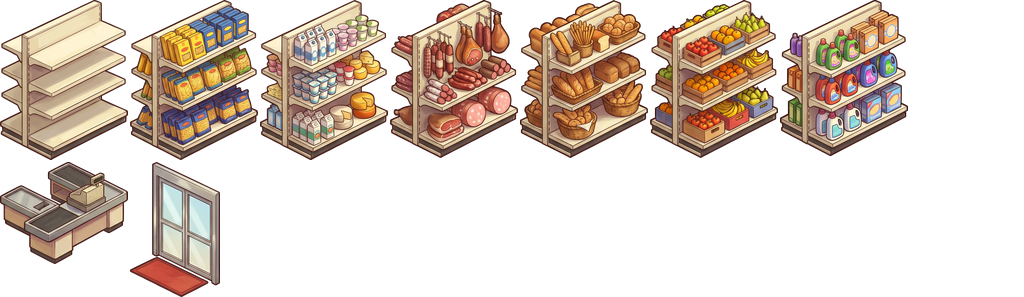
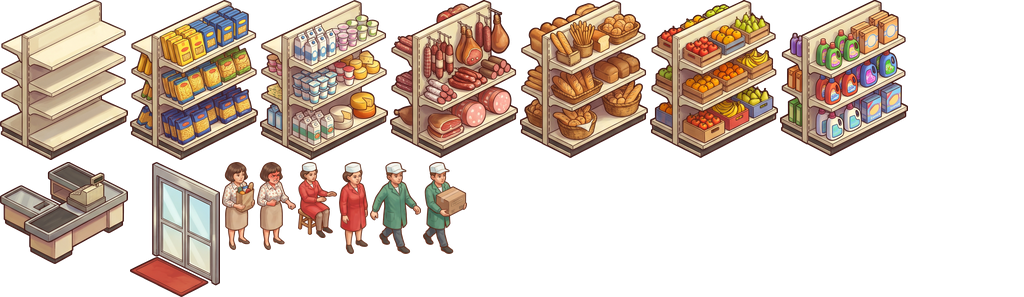
feat(07): painted people sprites
Shopper (calm/angry), cashier (seated/standing), stocker (empty/with box)
from a second Gemini sheet; mirrored when walking left.

Changed region(s): [[0.2188, 0.5455, 0.4688, 0.8485]]

diff --git a/src/render/draw.ts b/src/render/draw.ts
@@ -81,8 +81,8 @@ const CUSTOMER = 0x3d6fb5;
 const CUSTOMER_ANGRY = 0xd64541;
 const CUSTOMER_H = 22;
 
-/** Characters face bottom-left; mirror them while walking towards screen right. */
-const facesRight = (a: { x: number; y: number }, to?: { x: number; y: number }) => !!to && to.x - a.x - (to.y - a.y) > 0.01;
+/** Characters are painted facing bottom-right; mirror them while walking towards screen left. */
+const goesLeft = (a: { x: number; y: number }, to?: { x: number; y: number }) => !!to && to.x - a.x - (to.y - a.y) < -0.01;
 
 /** Feet of a person standing at fractional cell (x, y): the centre of the diamond. */
 const feet = (x: number, y: number) => { const p = gridToIso(x, y); return { x: p.x, y: p.y + TILE_H / 2 }; };
@@ -90,7 +90,7 @@ const feet = (x: number, y: number) => { const p = gridToIso(x, y); return { x: 
 export function drawCustomer(g: G, over: G, c: Customer, put: Put = noPut, depth = 0) {
     const angry = c.state === 'leaving_angry';
     const f = feet(c.x, c.y);
-    const drawn = put(angry ? SPRITES.clienteArrabbiato : SPRITES.cliente, f.x, f.y + 2, depth, facesRight(c, c.path[0]));
+    const drawn = put(angry ? SPRITES.clienteArrabbiato : SPRITES.cliente, f.x, f.y + 2, depth, goesLeft(c, c.path[0]));
     if (!drawn) box(g, c.x, c.y, CUSTOMER_H, angry ? CUSTOMER_ANGRY : CUSTOMER, 0.35);
     if (c.state === 'leaving' || angry) return;
     // patience bar over the head
@@ -115,7 +115,7 @@ export function drawStaff(g: G, st: Staff, put: Put = noPut, depth = 0) {
     const frame = st.role === 'cassiere'
         ? (st.state === 'at_till' ? SPRITES.cassiereSeduto : SPRITES.cassiere)
         : (st.job?.units ? SPRITES.magazziniereScatolone : SPRITES.magazziniere);
-    if (put(frame, f.x, f.y + 2, depth, facesRight(st, st.path[0]))) return;
+    if (put(frame, f.x, f.y + 2, depth, goesLeft(st, st.path[0]))) return;
     box(g, st.x - o, st.y - o, 24, ROLE_COLOR[st.role], 0.38);
     box(g, st.x - o, st.y - o, 28, 0xf4efe6, 0.24); // berretto bianco
     if (st.job?.units) box(g, st.x + 0.15, st.y + 0.15, 16, CRATE, 0.3); // scatolone in mano

diff --git a/tests/assets.test.ts b/tests/assets.test.ts
@@ -1,6 +1,6 @@
 import { test } from 'node:test';
 import assert from 'node:assert/strict';
-import { existsSync, readFileSync } from 'node:fs';
+import { readFileSync } from 'node:fs';
 import { CATEGORIES } from '../src/sim/config.ts';
 import { SPRITES } from '../src/render/sprites.ts';
 
@@ -11,8 +11,7 @@ test('every drawable has a frame: furniture', () => {
     has([SPRITES.porta, SPRITES.cassa, SPRITES.scaffale, ...CATEGORIES.map((c) => SPRITES.shelf(c))]);
 });
 
-// todo until art/sheets/personaggi.jpg exists (Gemini image generation overloaded on 2026-11-26)
-test('every drawable has a frame: people', { todo: !existsSync(new URL('../art/sheets/personaggi.jpg', import.meta.url)) }, () => {
+test('every drawable has a frame: people', () => {
     has([SPRITES.cliente, SPRITES.clienteArrabbiato, SPRITES.cassiere, SPRITES.cassiereSeduto,
         SPRITES.magazziniere, SPRITES.magazziniereScatolone]);
 });

diff --git a/docs/milestones/07-sprite-dipinti.md b/docs/milestones/07-sprite-dipinti.md
@@ -2,7 +2,7 @@
 
 ## Status
 
-in progress — arredi fatti e online (3a69e3b); personaggi in attesa: generazione immagini Gemini sovraccarica (2026-11-26), riprovare
+implemented — in attesa del playtest dell'utente
 
 ## Objective
 
@@ -30,7 +30,7 @@ Sostituire i blocchi colorati con sprite isometrici **dipinti** (non pixel art) 
 ## Acceptance criteria
 
 - [x] Ogni tipo di oggetto ha un frame in `kit.json` — test: `tests/assets.test.ts::every drawable has a frame: furniture`
-- [ ] Ogni personaggio ha un frame — test: `tests/assets.test.ts::every drawable has a frame: people` (todo finché manca `art/sheets/personaggi.jpg`)
+- [x] Ogni personaggio ha un frame — test: `tests/assets.test.ts::every drawable has a frame: people`
 - [x] Il gioco carica l'atlas senza errori in console e disegna gli sprite — test: `scripts/browser-test.mjs::no console errors` + screenshot
 - [ ] Merce sullo scaffale visibile e distinguibile per categoria; scaffale vuoto riconoscibile — screenshot + verified by user playtest
 - [ ] Sprite coerenti e leggibili su telefono (zoom minimo e normale) — verified by user playtest
@@ -48,4 +48,5 @@ L'utente apre il gioco dal telefono e vede un supermercato dipinto: pavimenti, s
 ## Notes
 
 - Promuove dal backlog: "Sprite dipinti AI". Chiude l'open question "Strumento AI per gli sprite e formato atlas": Gemini + atlas PNG/JSON fatto in casa.
+- Il foglio personaggi è venuto da una chat Gemini nuova ("1980s Italian Supermarket Sprite Sheet"): la prima chat falliva sempre. I personaggi guardano in basso a destra; `draw.ts` li specchia quando vanno verso sinistra.
 - Riferimento: pipeline di `spesa-nonna` (`tools/kit.py`, `tools/scontorna.py`), che però produceva pixel art: qui lo stile resta dipinto (gameplan).

diff --git a/docs/STATE.md b/docs/STATE.md
@@ -12,19 +12,19 @@ development (scaffold completato)
 
 ## Current milestone
 
-[07 — Sprite dipinti](milestones/07-sprite-dipinti.md) (in corso: arredi fatti, personaggi da generare). Poi [08 — Rifiniture rapide](milestones/08-rifiniture-rapide.md). 01–06 e 05b chiusi.
+[07 — Sprite dipinti](milestones/07-sprite-dipinti.md) (implementato, in attesa di playtest). Poi [08 — Rifiniture rapide](milestones/08-rifiniture-rapide.md). 01–06 e 05b chiusi.
 
 ## Last action
 
-Milestone 07, parte arredi: foglio Gemini `art/sheets/arredi.jpg` (scaffale vuoto + 6 categorie, cassa, porta), `tools/kit.py` (scontorno + atlas `public/assets/kit.png/json`), `draw.ts` disegna gli sprite con i blocchi come riserva. Online (3a69e3b), browser test live 10/10. `npm test` 36 pass + 1 todo (personaggi).
+Milestone 07 implementata: fogli Gemini `art/sheets/arredi.jpg` (scaffale vuoto + 6 categorie, cassa, porta) e `personaggi.jpg` (cliente calma/arrabbiata, cassiere seduto/in piedi, magazziniere a mani vuote/con scatolone); `tools/kit.py` scontorna e impacchetta `public/assets/kit.png/json`; `draw.ts` disegna gli sprite (blocchi come riserva). `npm test` 37/37, browser 10/10.
 
 ## Next step
 
-Generare il foglio personaggi nella chat Gemini "Retro Italian Supermarket Sprite Sheet" (prompt in `art/prompts.md`, modalità Auto), scaricarlo in `art/sheets/personaggi.jpg`, `python3 tools/kit.py`, controllare screenshot, push. Oppure passare all'08 e tornare dopo.
+Playtest dell'utente sul telefono per chiudere il 07, poi [08 — Rifiniture rapide](milestones/08-rifiniture-rapide.md).
 
 ## Blockers
 
-Generazione immagini Gemini sovraccarica il 2026-11-26 (4 tentativi falliti).
+none
 
 ## Notes for next session
 

diff --git a/art/prompts.md b/art/prompts.md
@@ -21,7 +21,7 @@ object's two front faces turned toward the bottom-left and bottom-right. Same sc
 
 ## Foglio 2 — `personaggi.png` (3×2)
 
-Same style/angle/scale/outline, all facing bottom-left, small readable game characters:
+Same style/angle/scale/outline, all facing bottom-right (as generated), small readable game characters:
 1) Italian woman shopper in 1980s clothes with a shopping bag, calm; 2) same shopper red-faced and angry;
 3) cashier in red smock and white cap sitting on a stool, hands forward (no counter); 4) same cashier standing;
 5) stock boy in green work coat and white cap, walking; 6) same stock boy carrying a cardboard box.
